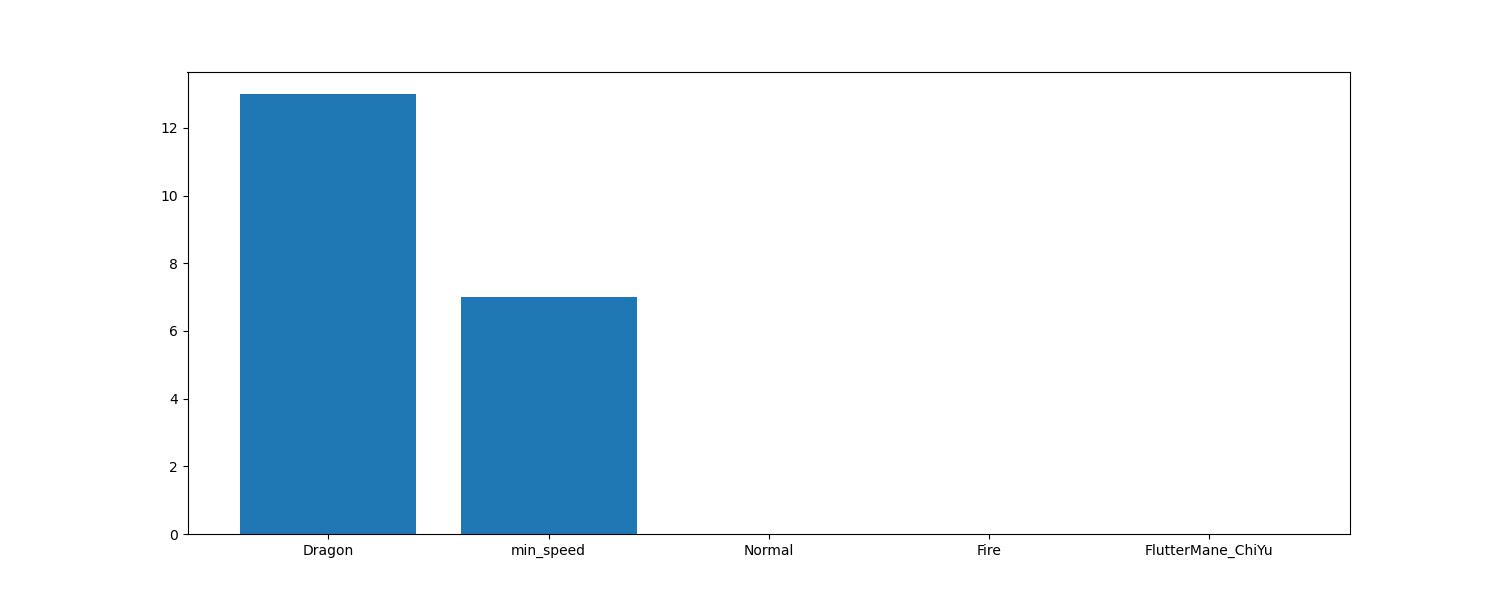
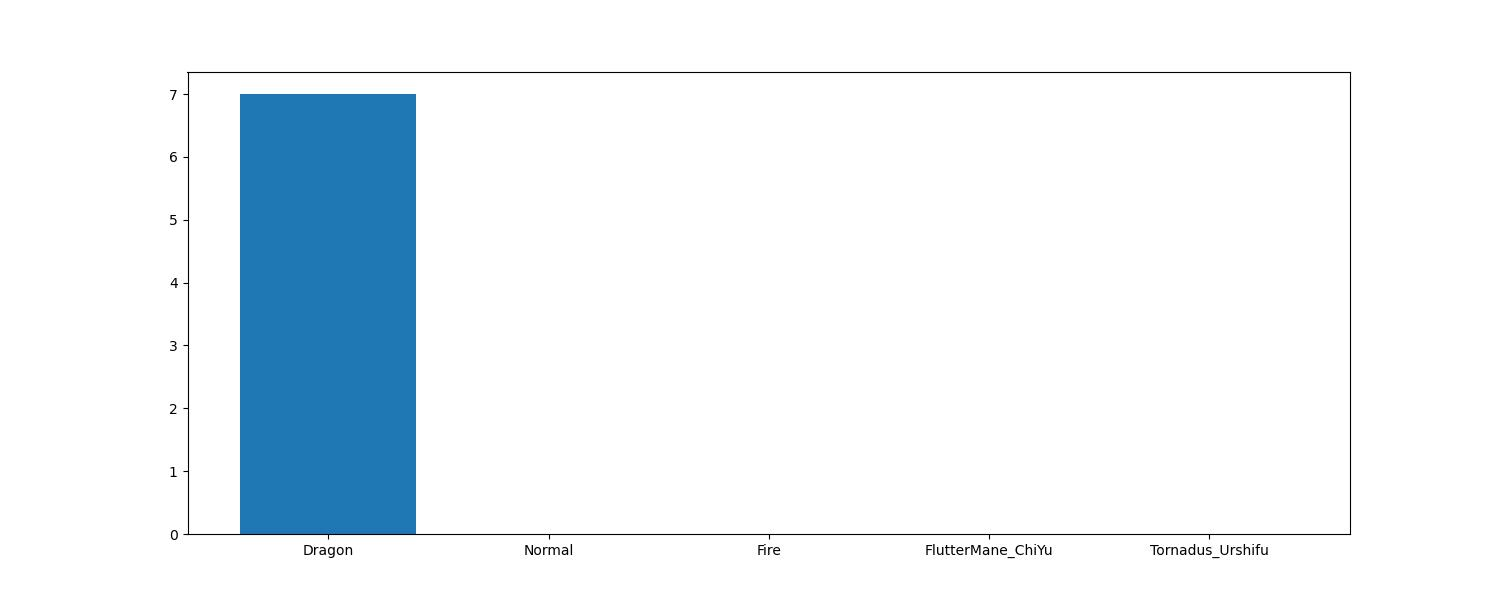
add predict code

diff --git a/src/streamlit_app/streamlit_app.py b/src/streamlit_app/streamlit_app.py
@@ -1,23 +1,34 @@
-"外部モジュール"
+# 外部モジュール
 import streamlit as st
 import pandas as pd
 import json
 import os
 import sys
+import pickle
+from sklearn.linear_model import LogisticRegression
 from importlib import reload
 
-"自作モジュール"
+# 自作モジュール
 # 上位階層のフォルダを読み込むために、対象を増やす
 sys.path.append("./src")
 from convert_data import convert_data
+# from split_train_test_data import split_train_test
+
 reload(convert_data)
 
 class streamlit_app:
     def __init__(self):
+        # jsonファイルなどの外部データを読み込む
         self._read_data()
+        # アプリのベースを作る
         self._make_app_base()
+        # アプリ上で入力した情報を加工して、DataFrame化する
         self._convert_data()
-        st.write(self.actual_pick_and_party)
+        # アプリで入力した情報を基に、選出されるか予測する
+        self._predict_pick()
+        # 
+        with self.col_1:
+            st.bar_chart(self.pred_result_df)
 
     def _convert_data(self):
         """
@@ -28,8 +39,8 @@ class streamlit_app:
         
         # 自作モジュールを呼び出し、Dataframe形式に加工する
         convert_data_instance = convert_data.convert_data(mode = "streamlit_mode", streamlit_input = self.actual_pick_and_party)
-        df = convert_data_instance.make_DataFrame(poke_name = self.opponent_party_list[0])
-        st.write(df)
+        self.converted_streamlit_input_df = convert_data_instance.make_DataFrame()
+        st.write(self.converted_streamlit_input_df)
 
     def _read_data(self):
         """
@@ -66,10 +77,10 @@ class streamlit_app:
         self.my_party_list = my_party_list
                 
         "横に2列並べる"
-        col_0, col_1 = st.columns((1, 1))
+        self.col_0, self.col_1 = st.columns((1, 1))
 
         # 1列目
-        with col_0:
+        with self.col_0:
             # 相手の構築を入力する
             opponent_party_list = []
             for i in range(6):
@@ -82,6 +93,39 @@ class streamlit_app:
                 opponent_party_list.append(opponent_party_poke)
             self.opponent_party_list = opponent_party_list
 
+    def _predict_pick(self):
+        """
+        選出確率を予測する
+        """
+        # 予測対象とする変数
+        self.predict_object_column = "start_pick"
+        
+        # 被説明変数を選択
+        y = self.converted_streamlit_input_df.loc[:, self.predict_object_column]
+
+        # 予測結果を格納するリスト
+        pred_result_list = []
+
+        # 予測対象とするポケモンを変えながら予測
+        for object_poke_name in self.opponent_party_list:
+            # 説明変数を選択
+            X = self.converted_streamlit_input_df.drop(['start_pick', "picked", "my_party", "mean_speed"] ,axis=1)
+
+            "Logistic Regression"
+            # 標準化に使うScalerを解凍
+            st.write(object_poke_name)
+            scaler_X = pickle.load(open("./data/LR_scaler/scaler_" + object_poke_name + ".pkl", "rb"))
+            # 説明変数を標準化
+            X = scaler_X.transform(X)
+            # 予測器を解凍
+            LR_model = pickle.load(open("./data/trained_models/LR_model_" + self.predict_object_column + "_" + object_poke_name + ".pkl", 'rb'))
+
+            # 予測（確率で返す）
+            y_pred = LR_model.predict_proba(X)[0][1]
+            pred_result_list.append(y_pred)
+        
+        self.pred_result_df = pd.DataFrame(pred_result_list, index = self.opponent_party_list, columns = ["prob"])
+
 instance = streamlit_app()
 
 """
@@ -90,6 +134,4 @@ if st.button("合計"):
     # 合計ボタンが押されたら数値を合計し表示
     total = value_1 + value_2
     st.write(f"合計値: {total}")
-
-
 """

diff --git a/src/convert_data/convert_data.py b/src/convert_data/convert_data.py
@@ -5,12 +5,12 @@ import collections
 
 
 class convert_data:
-    def __init__(self, mode = "json_mode", streamlit_input = None) -> None:
+    def __init__(self, mode = "test_mode", streamlit_input = None) -> None:
         """
         対戦データ（jsonファイル）を予測モデルに渡せるように、DataFrameに変換し、csvファイルで出力する。
         また、Streamlitで入力した実際の対戦データも同様に、Dataframeに変換する。
         Args    
-            mode: このクラスを実行するモード。"json_mode"はjsonファイルをcsvで出力する用。"streamlit_mode"はstreamlitを入力としたとき用。
+            mode: このクラスを実行するモード。"test_mode"はjsonファイルをcsvで出力する用。"streamlit_mode"はstreamlitを入力としたとき用。
         """
         # 入力を整理
         self.mode = mode
@@ -19,7 +19,7 @@ class convert_data:
         # jsonファイルを読み込む
         self._read_json_files()
 
-        if self.mode == "json_mode":
+        if self.mode == "test_mode":
             # 計算対象とする、データが十分に集まったポケモンを調べる
             self._extract_enough_data_poke()
             print("データが十分に集まったポケモン:", self.enough_data_poke_list)
@@ -142,10 +142,10 @@ class convert_data:
         # csvファイルとして保存する
         pd.DataFrame(self.enough_data_poke_list, columns = ["poke_name"]).to_csv("./data/intermediate/1_preprocessed/enough_data_poke.csv")
 
-    def make_DataFrame(self, poke_name):
+    def make_DataFrame(self, poke_name = None):
         """
         対戦データをDataframe形式に変換する
-        poke_name: 分析対象（選出予測する対象となる）ポケモン
+        poke_name: 分析対象（選出予測する対象となる）ポケモン streamlit_modeにおいては不要になるので、無駄な入力を省けるように、デフォルト値はNoneとして設定しておく
         """
         picked_TF_df = pd.DataFrame([])
         start_picked_TF_df = pd.DataFrame([])
@@ -161,13 +161,13 @@ class convert_data:
 
         # 対戦単位ごとに読み込み、特徴量を作成する
         for data_index, data in self.pick_and_party.items():
-            # "json_mode"の時は、分析対象のポケモンが相手構築に入っているかどうかを判定。"streamlit_mode"の時は、絶対実行。
-            if self.mode == "json_mode" and poke_name not in data["opponent_party"]:
+            # "test_mode"の時は、分析対象のポケモンが相手構築に入っているかどうかを判定。"streamlit_mode"の時は、絶対実行。
+            if self.mode == "test_mode" and poke_name not in data["opponent_party"]:
                 continue
             """
             jsonファイルは教師データ（答えデータ）が付属しているので、答えの列を追加する
             """
-            if self.mode == "json_mode":
+            if self.mode == "test_mode":
                 "選出されたかどうか"
                 picked_TF = int(poke_name in data["opponent_pick"])
 
@@ -222,7 +222,7 @@ class convert_data:
 
             "DataFrameに変換し、下に蓄積する"
             # 被説明変数
-            if self.mode == "json_mode":
+            if self.mode == "test_mode":
                 # 選出されたかどうか
                 picked_TF_df = pd.concat([picked_TF_df, pd.DataFrame([picked_TF])])
 

diff --git a/src/split_train_test_data/split_train_test.py b/src/split_train_test_data/split_train_test.py
@@ -9,8 +9,15 @@ import pickle
 import lightgbm as lgb
 
 class split_train_test:
-    def __init__(self, poke_name):
+    def __init__(self, poke_name,  predict_object_column = "start_pick"):
+        """
+        Args
+            poke_name: 分析（予測）対象とするポケモンの名前
+        """        
+        # 入力を整理
+        self.predict_object_column = predict_object_column 
         self.poke_name = poke_name
+
         # csvファイルを読み込む
         self._read_csv()
 
@@ -22,20 +29,19 @@ class split_train_test:
         """
         self.df = pd.read_csv("./data/intermediate/1_preprocessed/preprocessed_" + self.poke_name + ".csv", index_col = 0)
 
-    def split_data(self, test_size = 0.2, predict_object_column = "start_pick"):
+    def split_data(self, test_size = 0.2):
         """
         データを分割し、学習データとテストデータとする
         Args
             test_size: テストデータのサイズ
             predict_object_column: 予測対象とする列（デフォルトは先発）
         """
-        self.predict_object_column = predict_object_column 
         # 説明変数を選択(不要な列を削除)
         X = self.df.drop(['start_pick', "picked", "my_party"] ,axis=1)
         X = self.df.drop(['start_pick', "picked", "my_party", "mean_speed"] ,axis=1)
         self.X = X
         # 被説明変数を選択
-        y = self.df.loc[:, predict_object_column]
+        y = self.df.loc[:, self.predict_object_column]
         self.y = y
 
         # データを分割する
@@ -46,6 +52,9 @@ class split_train_test:
         scaler_X = StandardScaler()
         self.X_train = scaler_X.fit_transform(self.X_train)
         self.X_test = scaler_X.transform(self.X_test)
+
+        # 標準化に使ったScalerは保存しておく（streamitで使うため）
+        pickle.dump(scaler_X, open("./data/LR_scaler/scaler_" + str(self.poke_name) + ".pkl", "wb"))
 
     def train_data(self, model):
         """
@@ -182,13 +191,13 @@ if __name__ == "__main__":
         print("poke_name:", poke_name)
 
         # 対象のポケモンについて、インスタンスを作成
-        instance = split_train_test(poke_name)
+        instance = split_train_test(poke_name = poke_name, predict_object_column = "start_pick")
 
         # 複数モデルで学習、予測を行う
         for model in ["LR", "GBDT"]:
             print("model:", model)
             # データを分割
-            instance.split_data(predict_object_column = "start_pick")
+            instance.split_data()
             # データ学習
             instance.train_data(model)
             # 予測を行う
